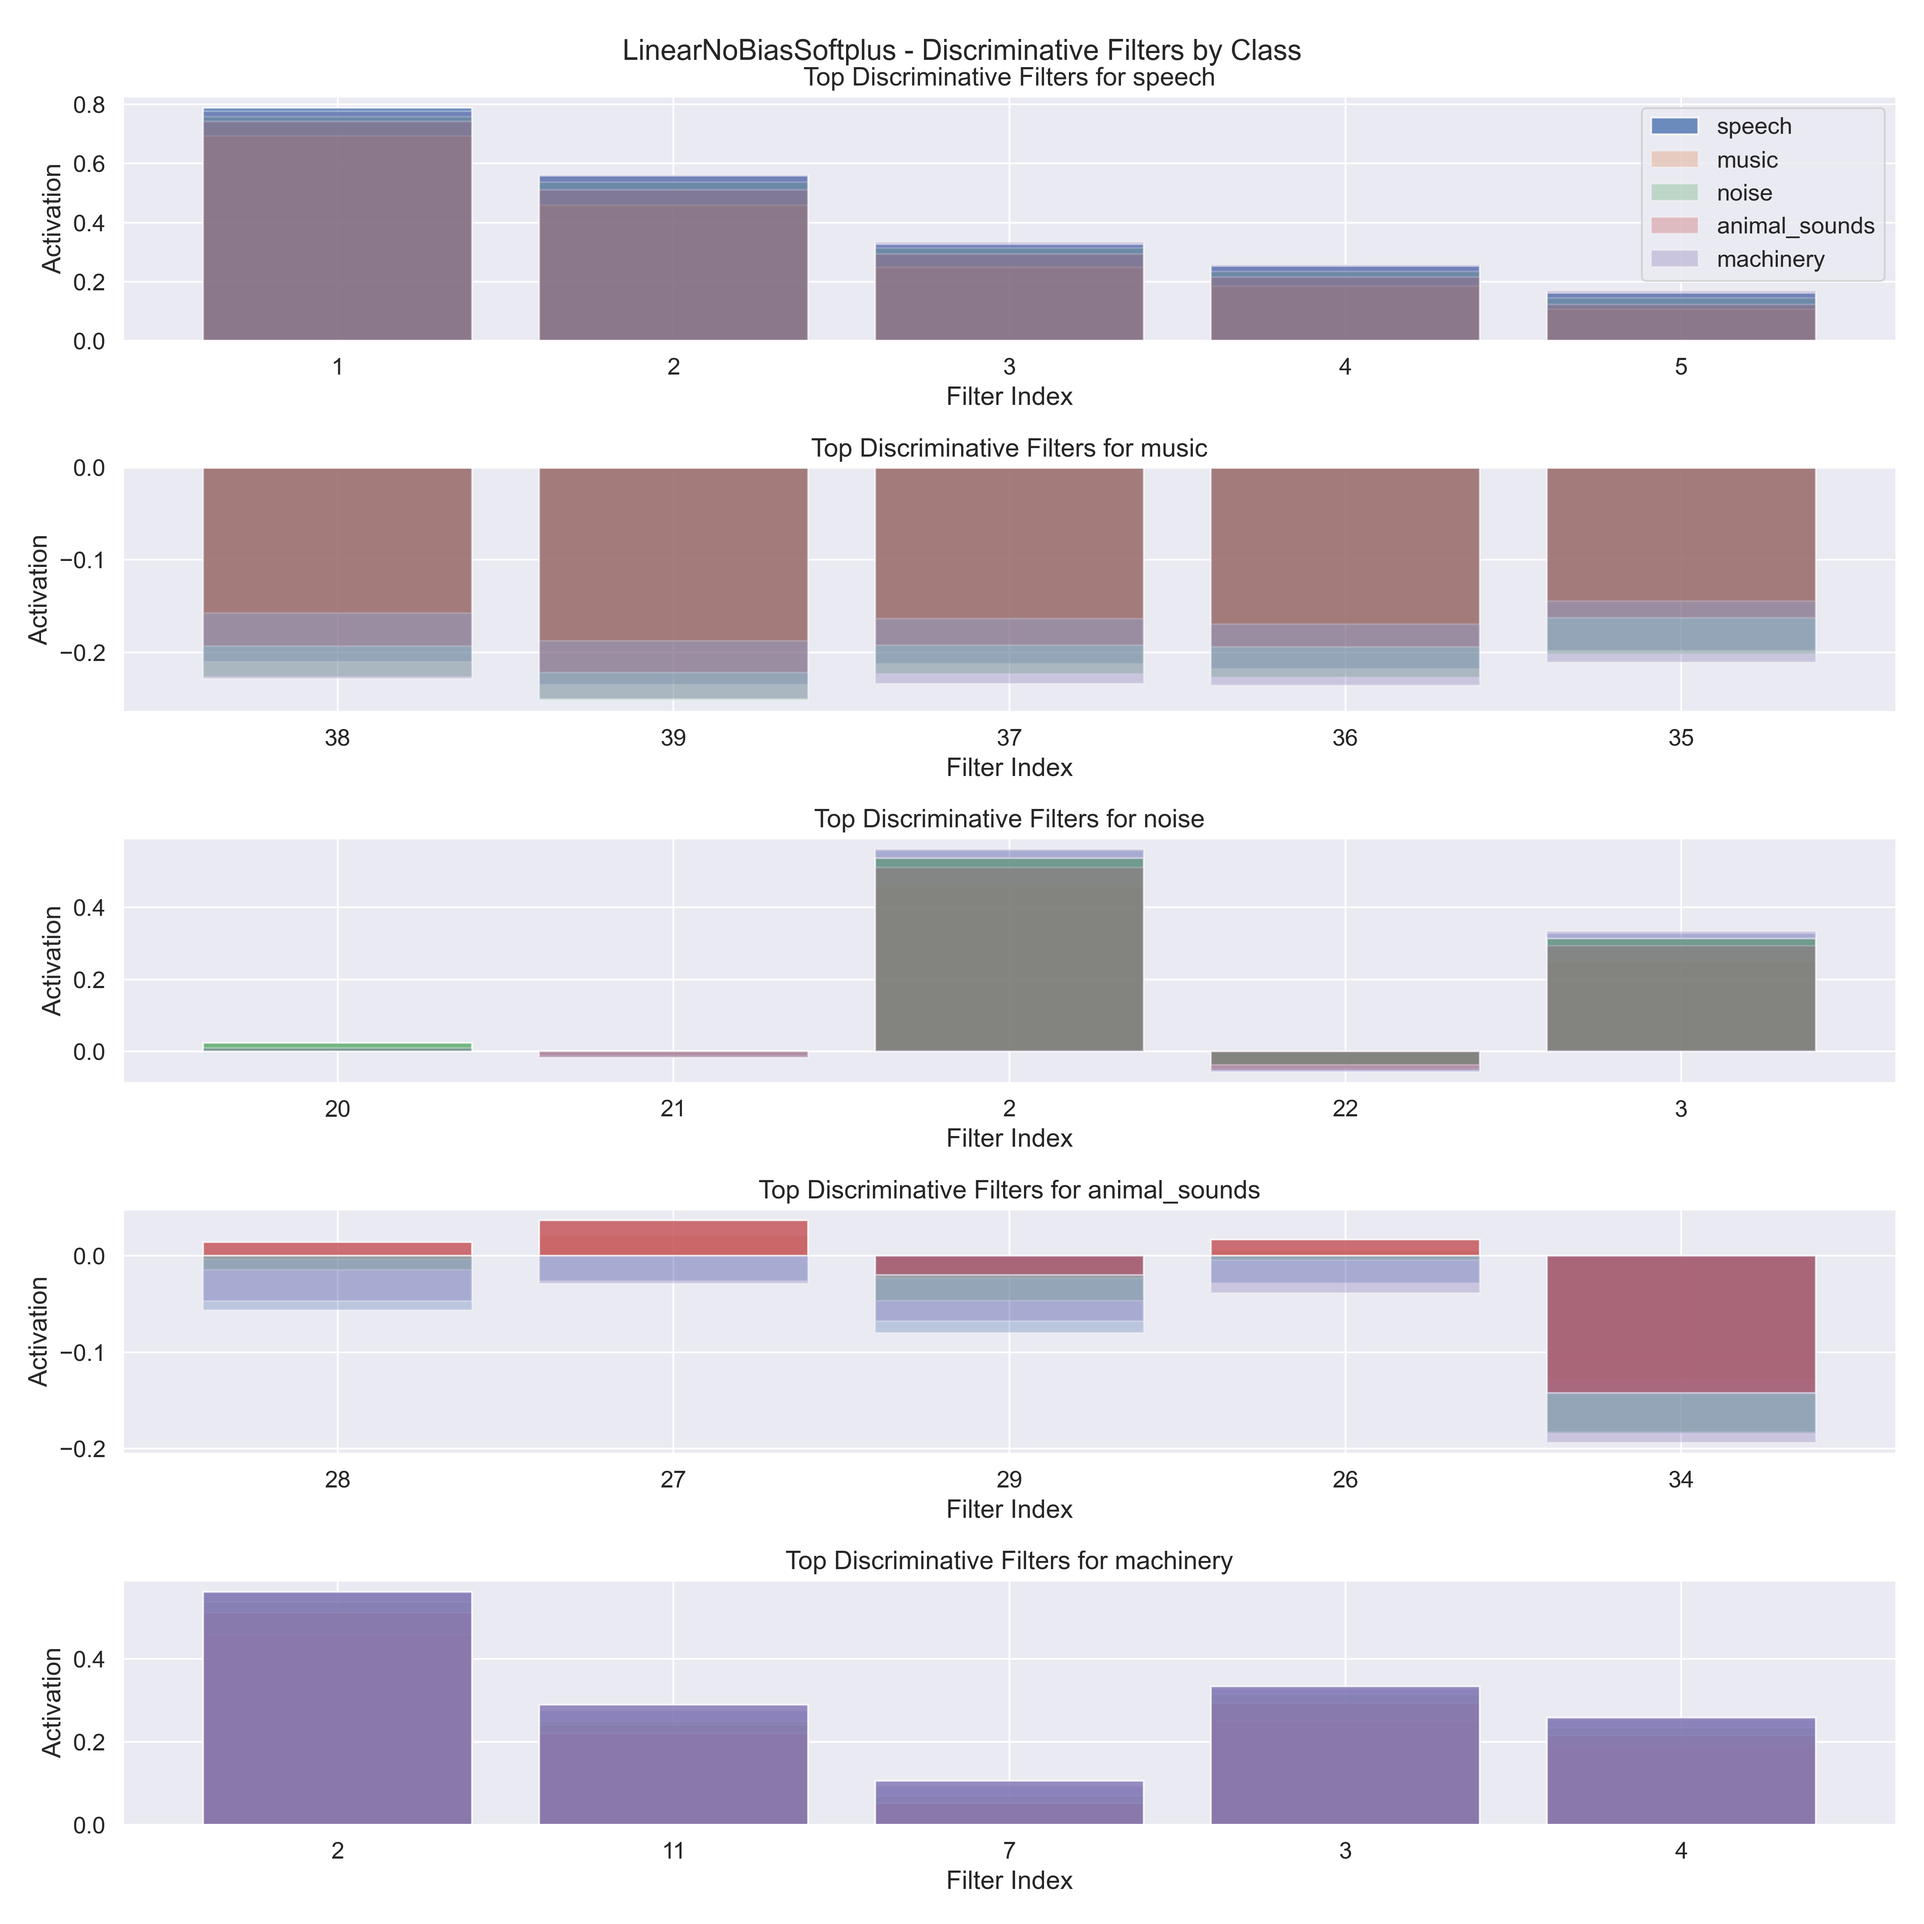
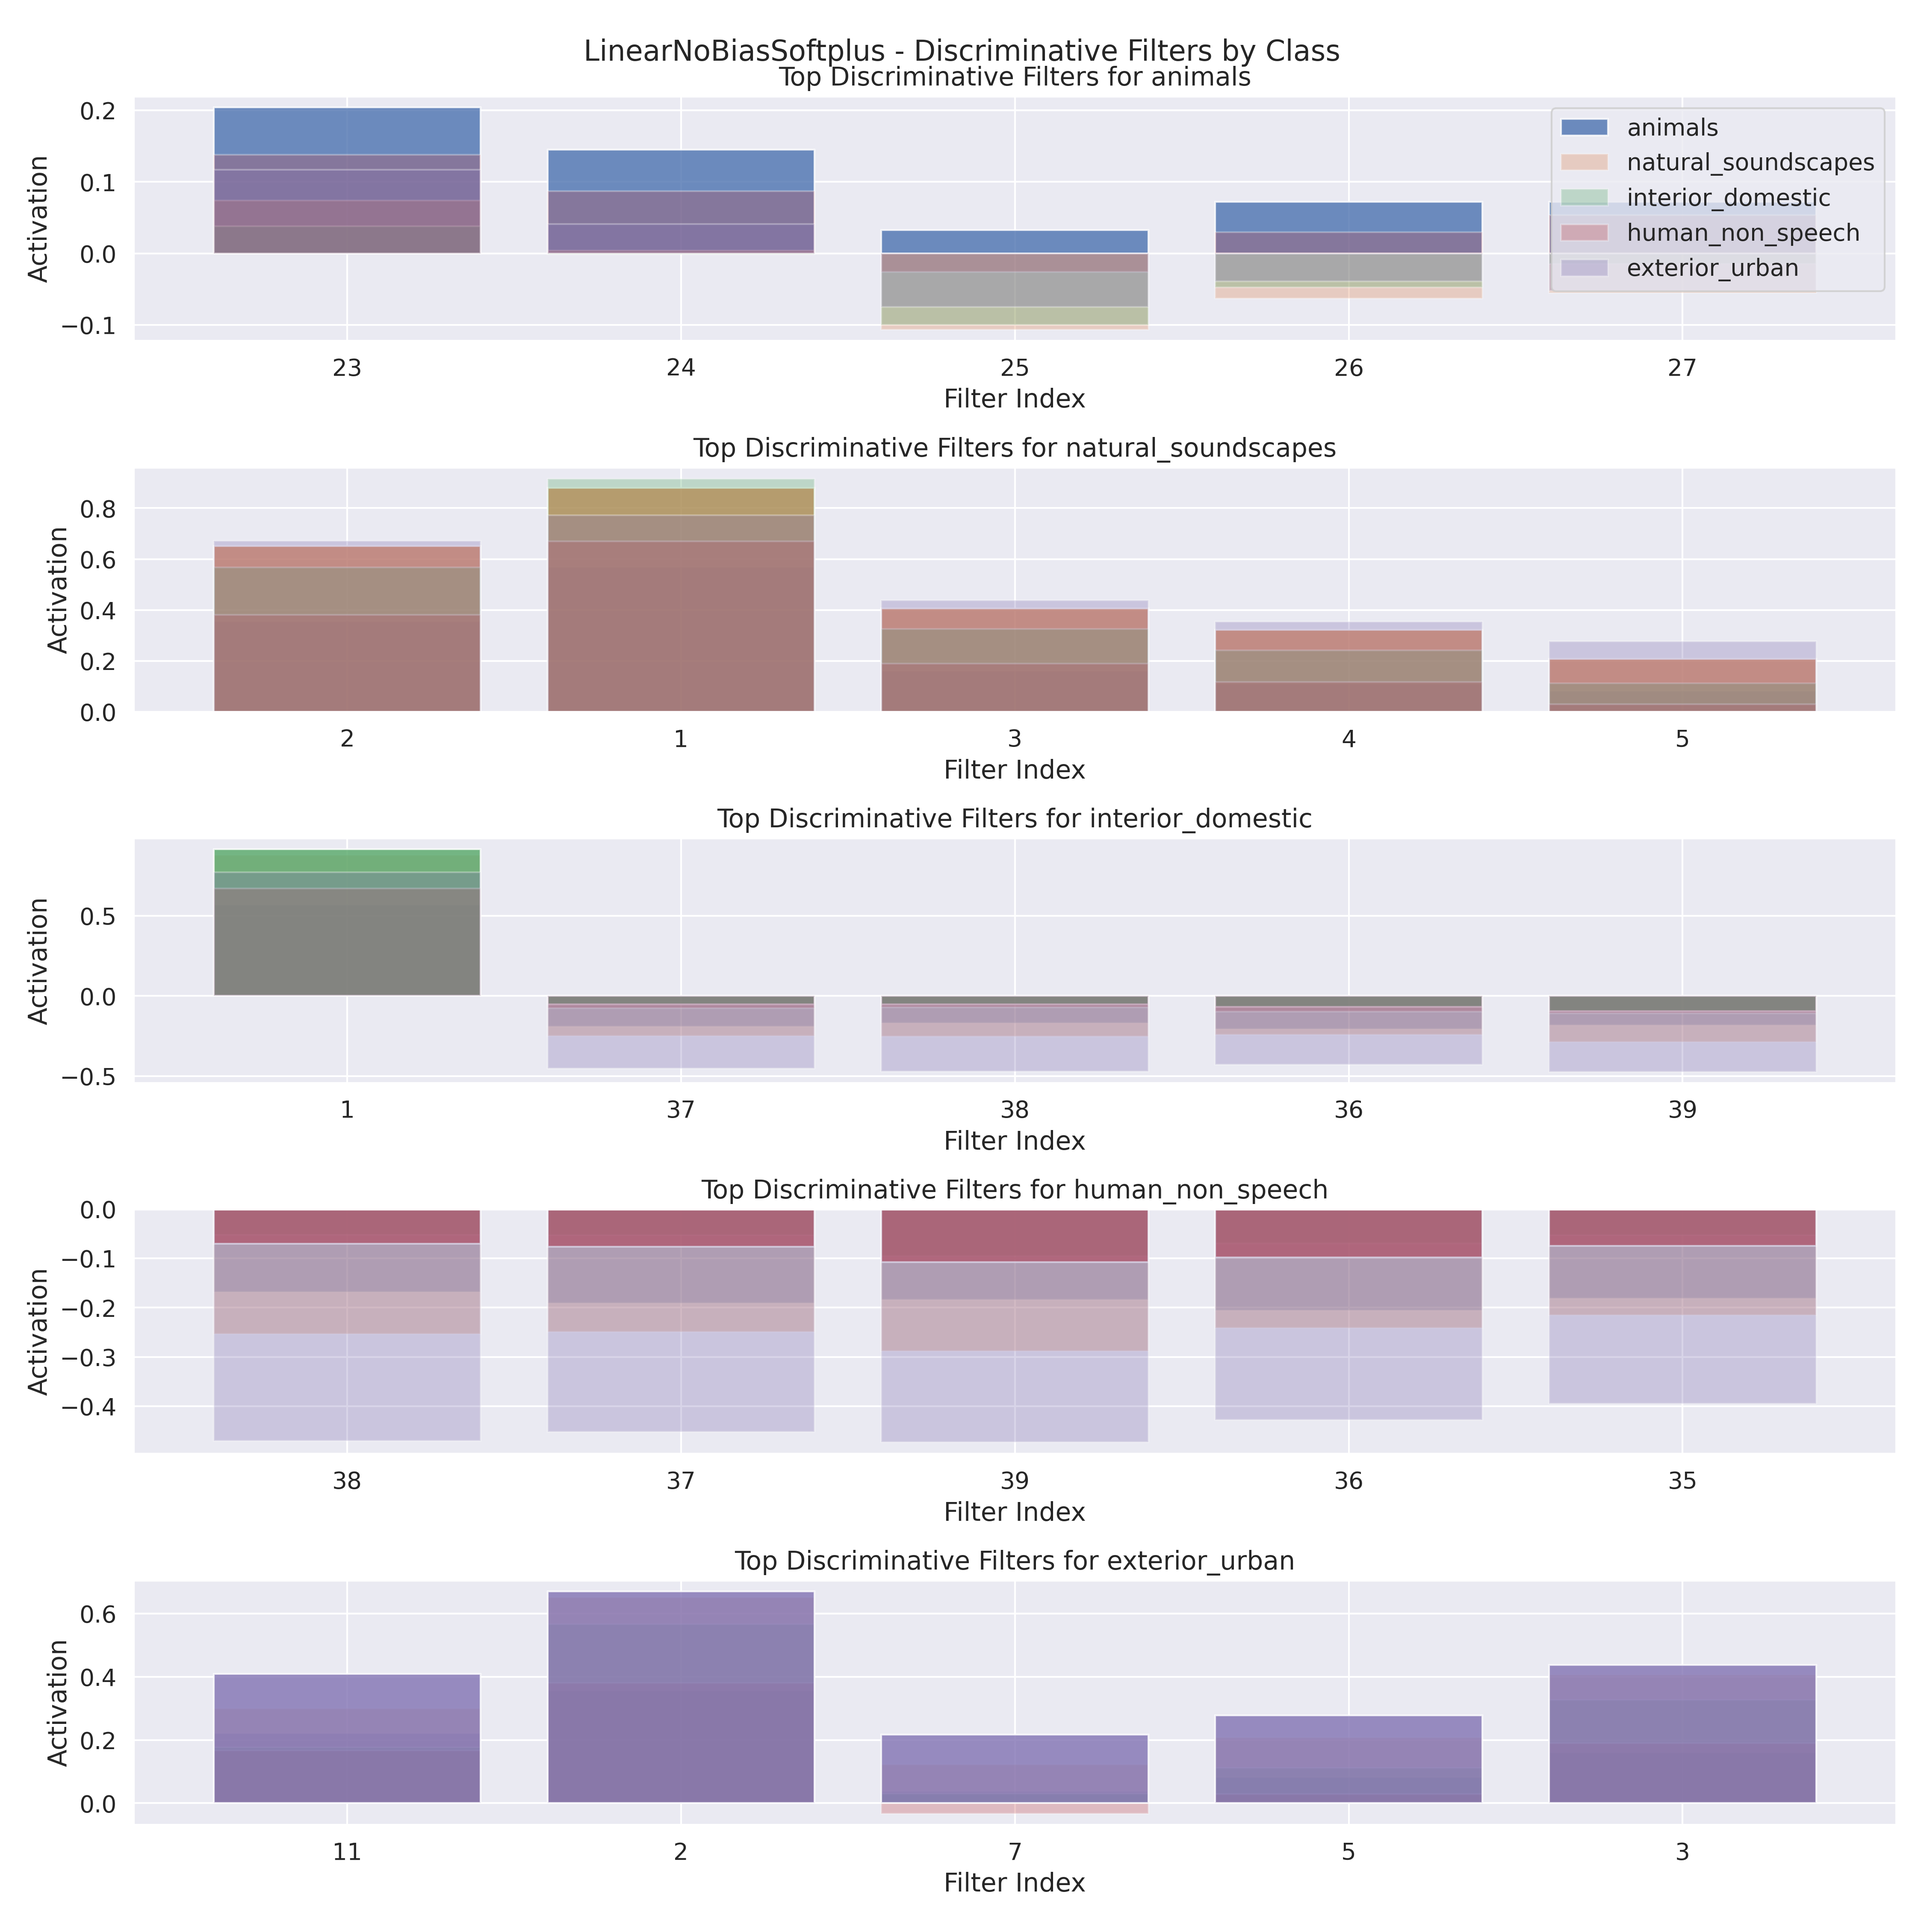
Use real ESC-50 categories in the activation analysis

diff --git a/activation_analysis_results/analysis_report.html b/activation_analysis_results/analysis_report.html
@@ -145,28 +145,28 @@
             <h3>Class-specific Filter Comparison</h3>
     
             <div class="image-container">
-                <img src="comparison/class_animal_sounds_filters.png" alt="animal_sounds filter comparison">
-                <p>Comparison of discriminative filters for class 'animal_sounds' across models.</p>
+                <img src="comparison/class_animals_filters.png" alt="animals filter comparison">
+                <p>Comparison of discriminative filters for class 'animals' across models.</p>
             </div>
         
             <div class="image-container">
-                <img src="comparison/class_machinery_filters.png" alt="machinery filter comparison">
-                <p>Comparison of discriminative filters for class 'machinery' across models.</p>
+                <img src="comparison/class_human_non_speech_filters.png" alt="human_non_speech filter comparison">
+                <p>Comparison of discriminative filters for class 'human_non_speech' across models.</p>
             </div>
         
             <div class="image-container">
-                <img src="comparison/class_music_filters.png" alt="music filter comparison">
-                <p>Comparison of discriminative filters for class 'music' across models.</p>
+                <img src="comparison/class_interior_domestic_filters.png" alt="interior_domestic filter comparison">
+                <p>Comparison of discriminative filters for class 'interior_domestic' across models.</p>
             </div>
         
             <div class="image-container">
-                <img src="comparison/class_noise_filters.png" alt="noise filter comparison">
-                <p>Comparison of discriminative filters for class 'noise' across models.</p>
+                <img src="comparison/class_natural_soundscapes_filters.png" alt="natural_soundscapes filter comparison">
+                <p>Comparison of discriminative filters for class 'natural_soundscapes' across models.</p>
             </div>
         
             <div class="image-container">
-                <img src="comparison/class_speech_filters.png" alt="speech filter comparison">
-                <p>Comparison of discriminative filters for class 'speech' across models.</p>
+                <img src="comparison/class_exterior_urban_filters.png" alt="exterior_urban filter comparison">
+                <p>Comparison of discriminative filters for class 'exterior_urban' across models.</p>
             </div>
         
         </div>

diff --git a/graphics.py b/graphics.py
@@ -57,52 +57,30 @@ def load_models():
     
     return model1, model2, model3
 
+ESC50_CATEGORIES = [
+    "animals",              # targets 0-9
+    "natural_soundscapes",  # targets 10-19
+    "human_non_speech",     # targets 20-29
+    "interior_domestic",    # targets 30-39
+    "exterior_urban",       # targets 40-49
+]
+
+
 def load_class_labels():
-    """
-    Load class labels from filenames or create synthetic ones if not available
-    
-    In a real scenario, this would load actual class labels from a file.
-    For this example, we'll extract class information from filenames or create synthetic labels.
-    """
-    try:
-        # Try to find class labels from feature map filenames
-        files = glob.glob('extracted_features/feature_maps/feature_map_*.npy')
-        class_labels = {}
-        
-        for file in files:
-            # Extract class information from filename
-            filename = os.path.basename(file)
-            # Assuming filename format is feature_map_XXXX_classname.npy
-            parts = filename.replace('feature_map_', '').replace('.npy', '').split('_')
-            
-            if len(parts) >= 2:
-                sample_id = parts[0]
-                class_name = '_'.join(parts[1:])
-                class_labels[sample_id] = class_name
-        
-        if not class_labels:
-            raise FileNotFoundError("Could not extract class labels from filenames")
-            
-        return class_labels
-        
-    except (FileNotFoundError, IndexError):
-        # If real class labels can't be found, create synthetic ones for demonstration
-        print("Creating synthetic class labels for demonstration purposes")
-        
-        # Create 5 synthetic classes
-        synthetic_classes = ["speech", "music", "noise", "animal_sounds", "machinery"]
-        
-        # Get all sample IDs
-        files = glob.glob('extracted_features/feature_maps/feature_map_*.npy')
-        sample_ids = [os.path.basename(f).replace('feature_map_', '').replace('.npy', '').split('_')[0]
-                     for f in files]
-        
-        # Assign synthetic classes
-        class_labels = {}
-        for i, sample_id in enumerate(sample_ids):
-            class_labels[sample_id] = synthetic_classes[i % len(synthetic_classes)]
-            
-        return class_labels
+    """Map each sample to its ESC-50 major category using the target in its filename."""
+    files = glob.glob('extracted_features/feature_maps/feature_map_*.npy')
+    class_labels = {}
+    for file in files:
+        sample_id = os.path.basename(file)[len('feature_map_'):-len('.npy')]
+        try:
+            target = int(sample_id.split('-')[-1])
+        except ValueError:
+            continue
+        if 0 <= target < 50:
+            class_labels[sample_id] = ESC50_CATEGORIES[target // 10]
+    if not class_labels:
+        raise FileNotFoundError("No ESC-50 style feature-map filenames found")
+    return class_labels
 
 def get_filter_activations(model, dataset, class_labels):
     """

diff --git a/main.py b/main.py
@@ -227,7 +227,7 @@ def train_model(model, dataset, num_epochs=200, batch_size=128, learning_rate=0.
     
     # Learning rate scheduler
     scheduler = optim.lr_scheduler.ReduceLROnPlateau(
-        optimizer, mode='min', factor=0.5, patience=5, verbose=True
+        optimizer, mode='min', factor=0.5, patience=5
     )
     
     # Training history
